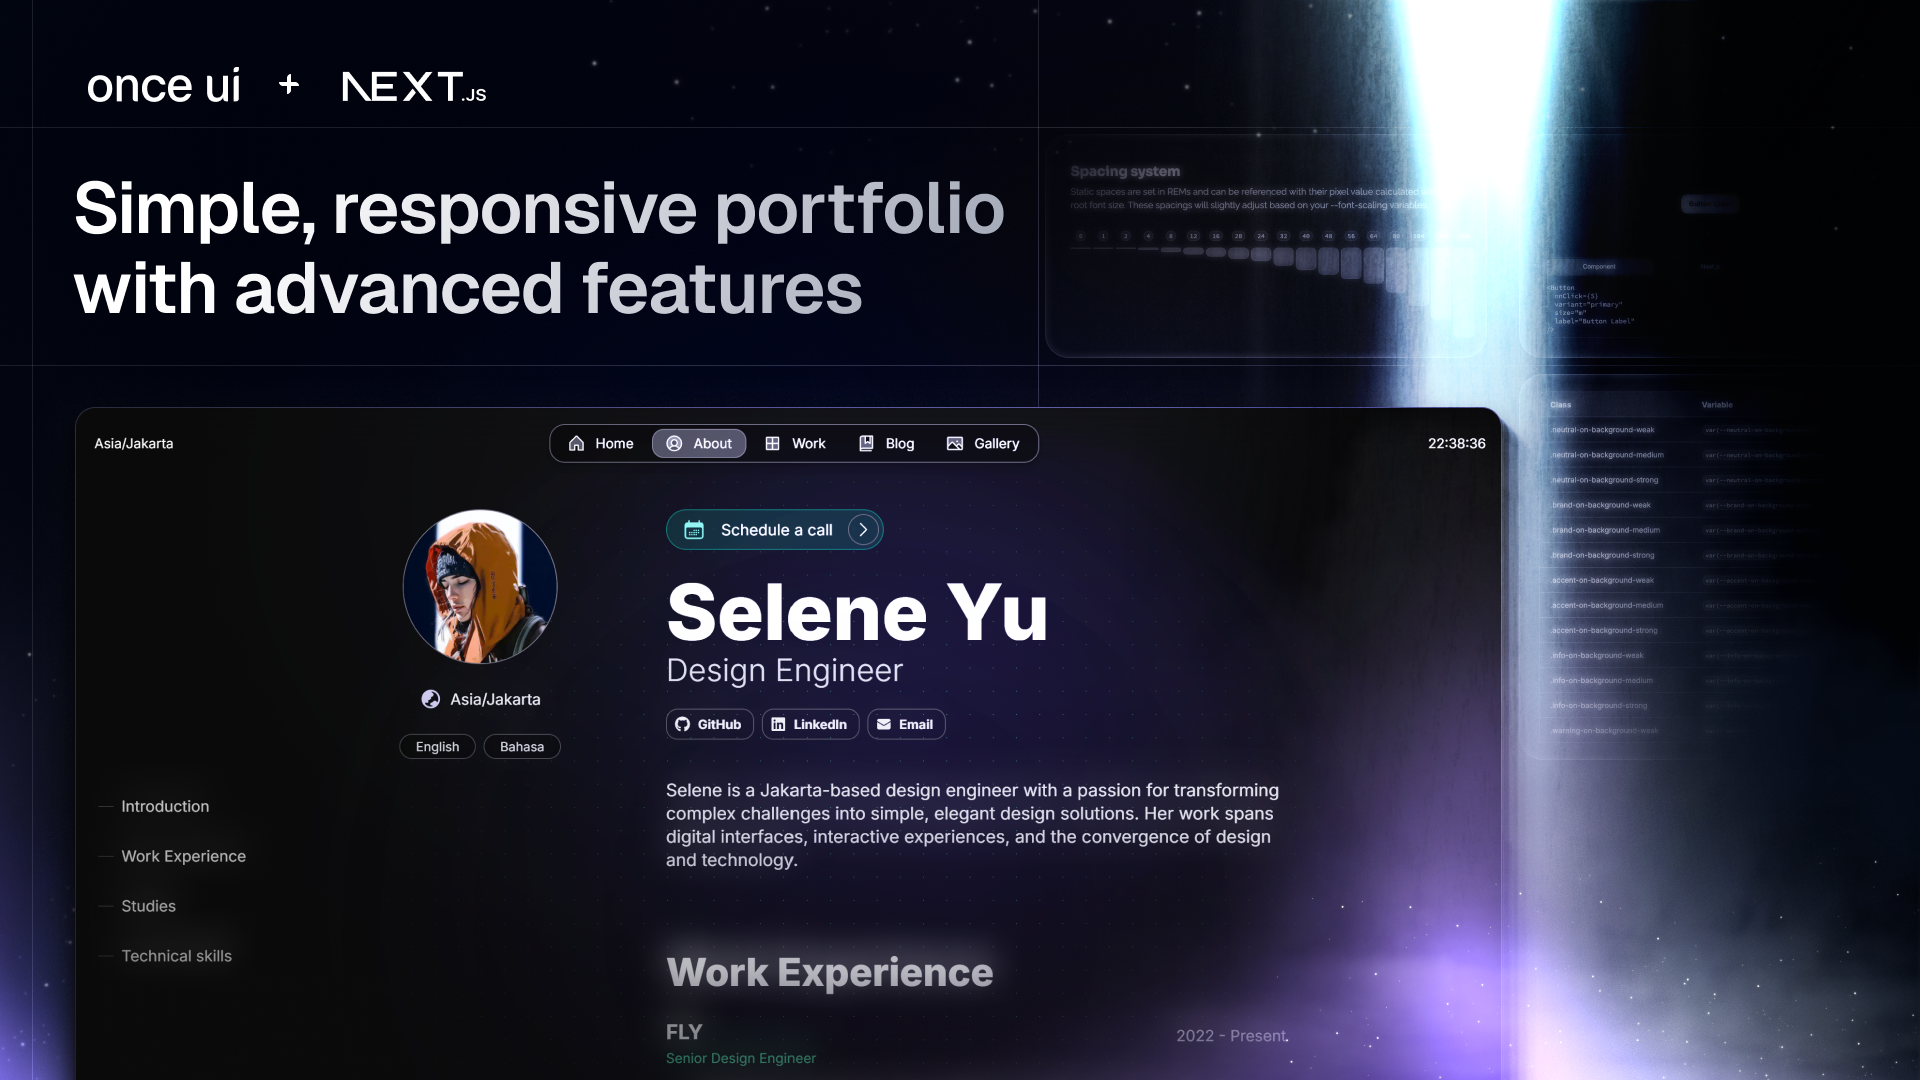
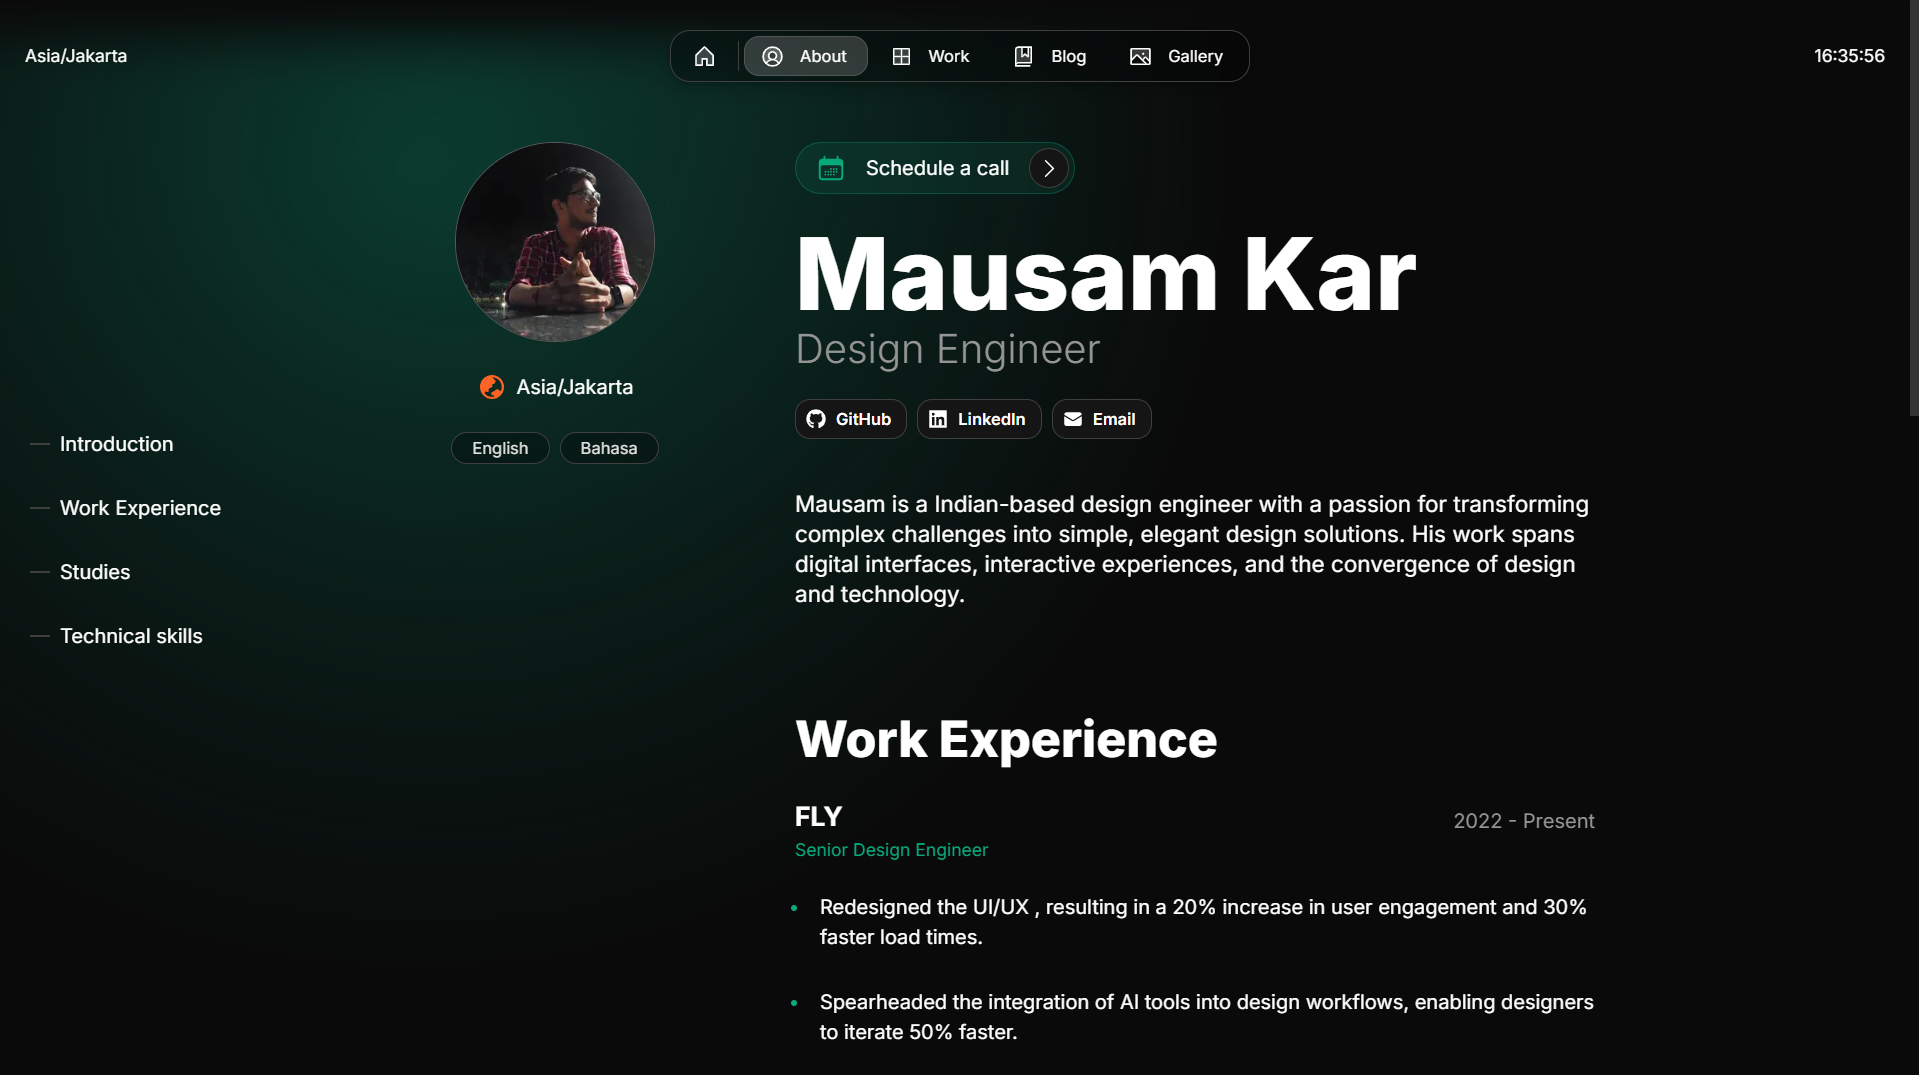
commit

diff --git a/src/app/resources/content.js b/src/app/resources/content.js
@@ -108,7 +108,7 @@ const about = {
         images: [
           // optional: leave the array empty if you don't want to display images
           {
-            src: "/images/projects/project-01/cover-01.jpg",
+            src: "/images/projects/project-01/cover-7.png",
             alt: "Once UI Project",
             width: 16,
             height: 9,
@@ -157,13 +157,13 @@ const about = {
         // optional: leave the array empty if you don't want to display images
         images: [
           {
-            src: "/images/projects/project-01/cover-02.jpg",
+            src: "/images/projects/project-01/cover-08.png",
             alt: "Project image",
             width: 16,
             height: 9,
           },
           {
-            src: "/images/projects/project-01/cover-03.jpg",
+            src: "/images/projects/project-01/cover-09.png",
             alt: "Project image",
             width: 16,
             height: 9,
@@ -176,7 +176,7 @@ const about = {
         // optional: leave the array empty if you don't want to display images
         images: [
           {
-            src: "/images/projects/project-01/cover-04.jpg",
+            src: "/images/projects/project-01/cover-10.png",
             alt: "Project image",
             width: 16,
             height: 9,

diff --git a/src/components/Footer.tsx b/src/components/Footer.tsx
@@ -28,13 +28,7 @@ export const Footer = () => {
           <Text paddingX="4">{person.name}</Text>
           <Text onBackground="neutral-weak">
             {/* Usage of this template requires attribution. Please don't remove the link to Once UI. */}
-            / Build your portfolio with{" "}
-            <SmartLink
-              style={{ marginLeft: "-0.125rem" }}
-              href="https://once-ui.com/templates/magic-portfolio"
-            >
-              Once UI
-            </SmartLink>
+           
           </Text>
         </Text>
         <Flex gap="16">

diff --git a/README.md b/README.md
@@ -1,89 +1,91 @@
-# **Build your portfolio with Once UI's Magic Portfolio**
+# **My Personal Portfolio**
 
-View the [demo here](https://demo.magic-portfolio.com).
+[![Next.js](https://img.shields.io/badge/Next.js-13.4+-black?style=for-the-badge&logo=next.js)](https://nextjs.org)
+[![Node.js](https://img.shields.io/badge/Node.js-18.17+-green?style=for-the-badge&logo=node.js)](https://nodejs.org)
+[![TypeScript](https://img.shields.io/badge/TypeScript-Strict-blue?style=for-the-badge&logo=typescript)](https://www.typescriptlang.org)
 
-![Magic Portfolio](public/images/cover.png)
+A modern, responsive portfolio website built with [Once UI](https://once-ui.com) for [Next.js](https://nextjs.org). This portfolio showcases my work, projects, and professional journey.
 
+![Portfolio Preview](public/images/cover.png)
+
+## **Tech Stack**
+
+| Category | Technologies |
+|----------|--------------|
+| Framework | Next.js 13.4+, React 18 |
+| Styling | Once UI, CSS Modules |
+| Language | TypeScript |
+| Build Tool | Node.js 18.17+ |
+| Deployment | Vercel |
 
 # **Getting started**
 
-Magic Portfolio was built with [Once UI](https://once-ui.com) for [Next.js](https://nextjs.org). It requires Node.js v18.17+.
+This portfolio requires Node.js v18.17+.
 
 **1. Clone the repository**
-```
-git clone https://github.com/once-ui-system/magic-portfolio.git
+```bash
+git clone [your-repository-url]
 ```
 
 **2. Install dependencies**
-```
+```bash
 npm install
 ```
 
 **3. Run dev server**
-```
+```bash
 npm run dev
 ```
 
 **4. Edit config**
-```
+```bash
 src/app/resources/config
 ```
 
 **5. Edit content**
-```
+```bash
 src/app/resources/content
 ```
 
 **6. Create blog posts / projects**
-```
+```bash
 Add a new .mdx file to src/app/blog/posts or src/app/work/projects
 ```
 
 # **Features**
 
-## **Once UI**
-- All tokens, components & features of [Once UI](https://once-ui.com)
+## **Once UI Integration**
+| Feature | Description |
+|---------|-------------|
+| Components | Access to all Once UI components |
+| Theming | Customizable through data attributes |
+| Tokens | Pre-defined design tokens |
+| Responsive | Mobile-first approach |
 
-## **SEO**
-- Automatic open-graph and X image generation with next/og
-- Automatic schema and metadata generation based on the content file
+## **SEO & Performance**
+| Feature | Description |
+|---------|-------------|
+| Open Graph | Automatic image generation |
+| Schema | Structured data generation |
+| Metadata | Dynamic meta tags |
+| Performance | Optimized for Core Web Vitals |
 
-## **Design**
+## **Content Management**
+| Feature | Description |
+|---------|-------------|
+| Blog | MDX-based blog system |
+| Projects | Portfolio project showcase |
+| Gallery | Image gallery support |
+| About | Customizable about section |
+
+## **Design Features**
 - Responsive layout optimized for all screen sizes
 - Timeless design without heavy animations and motion
 - Endless customization options through [data attributes](https://once-ui.com/docs/theming)
 
-## **Content**
-- Render sections conditionally based on the content file
-- Enable or disable pages for blog, work, gallery and about / CV
-- Generate and display social links automatically
-- Set up password protection for URLs
-
 ## **Localization**
-- A localized version of Magic Portfolio is available with the next-intl library
+- A localized version is available with the next-intl library
 - To use localization, switch to the 'i18n' branch
-
-# **Authors**
-
-Connect with us on Threads or LinkedIn.
-
-Lorant Toth: [Threads](https://www.threads.net/@lorant.one), [LinkedIn](https://www.linkedin.com/in/tothlorant/)  
-Zsofia Komaromi: [Threads](https://www.threads.net/@zsofia_kom), [LinkedIn](https://www.linkedin.com/in/zsofiakomaromi/)
-
-Localization added by [François Hernandez](https://github.com/francoishernandez)
-
-# **Get involved**
-
-- Join the [Design Engineers Club on Discord](https://discord.com/invite/5EyAQ4eNdS) and share your portfolio with us!
-- Report a [bug](https://github.com/once-ui-system/magic-portfolio/issues/new?labels=bug&template=bug_report.md).
-
-# **License**
-
-Distributed under the CC BY-NC 4.0 License.
-- Commercial usage is not allowed.
-- Attribution is required.
-
-See `LICENSE.txt` for more information.
 
 # **Deploy with Vercel**
 [![Deploy with Vercel](https://vercel.com/button)](https://vercel.com/new/clone?repository-url=https%3A%2F%2Fgithub.com%2Fonce-ui-system%2Fmagic-portfolio&project-name=portfolio&repository-name=portfolio&redirect-url=https%3A%2F%2Fgithub.com%2Fonce-ui-system%2Fmagic-portfolio&demo-title=Magic%20Portfolio&demo-description=Showcase%20your%20designers%20or%20developer%20portfolio&demo-url=https%3A%2F%2Fdemo.magic-portfolio.com&demo-image=%2F%2Fraw.githubusercontent.com%2Fonce-ui-system%2Fmagic-portfolio%2Fmain%2Fpublic%2Fimages%2Fcover.png)
